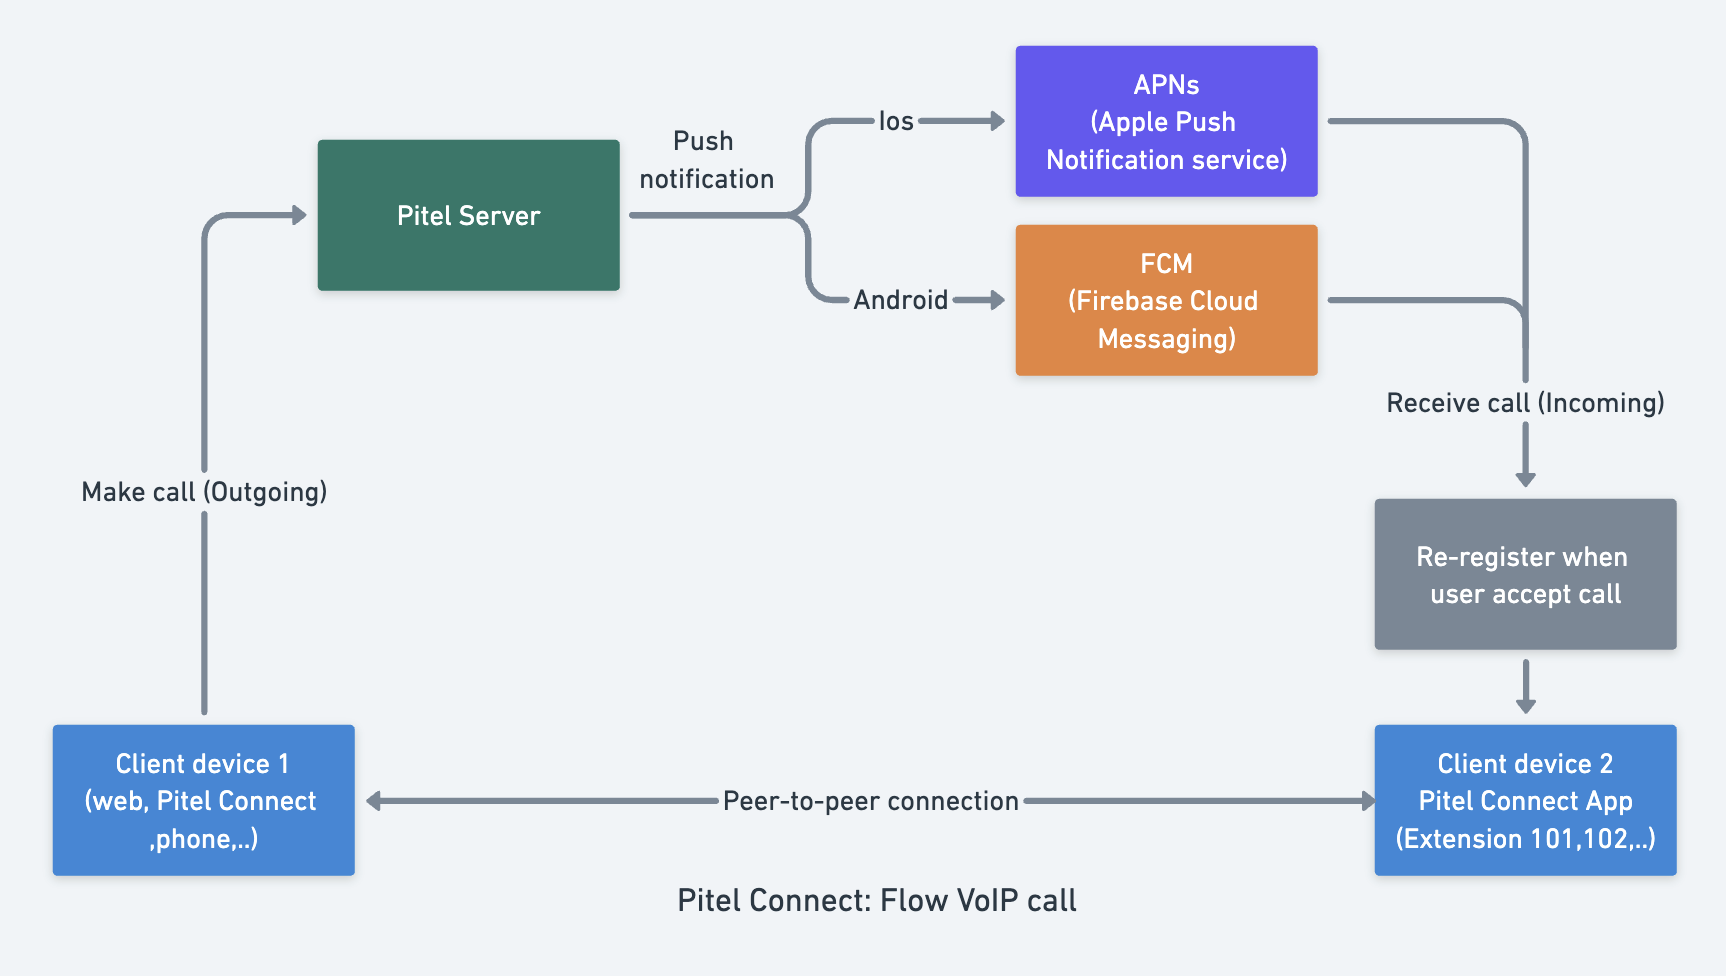
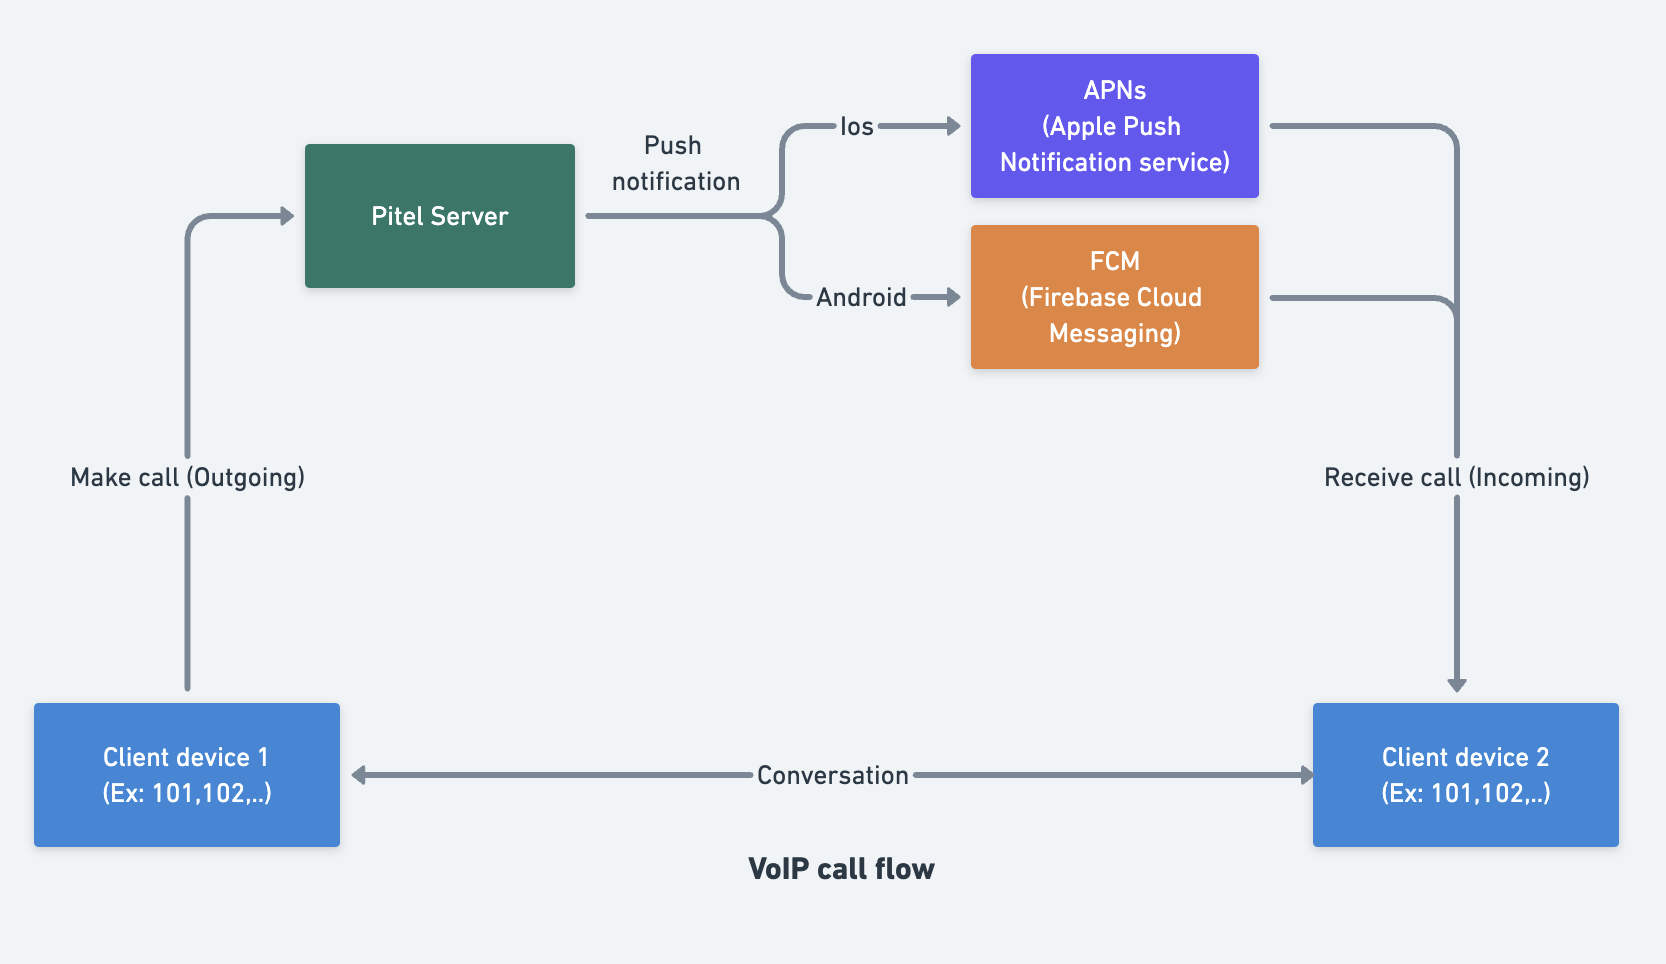
feat: Update README for version 1.1.5, adjust installation instructions, and correct wssServer URL

diff --git a/README.md b/README.md
@@ -30,13 +30,13 @@ When user make call from Pitel app, Pitel Server pushes a notification for all u
    Add pubspec.yaml:
 
 ```pubspec.yaml
-yarn add react-native-pitel-voip@1.1.4
+yarn add react-native-pitel-voip@1.1.5
 ```
 
 2. Installing dependencies into a bare React Native project
 
 ```js
-yarn add react-native-callkeep@4.3.13 @react-native-firebase/app@18.1.0 @react-native-firebase/messaging@22.1.0 react-native-background-timer@2.4.1 react-native-get-random-values@1.9.0 react-native-incall-manager@4.2.0 react-native-voip-push-notification@3.3.2 uuid@9.0.0 pitel-react-native-webrtc pitel-sdk-for-rn@0.0.6 @react-native-async-storage/async-storage@1.19.1 react-native-permissions@4.0.4 react-native-full-screen-notification-incoming-call@1.0.1 @react-native-webrtc@124.0.6
+yarn add react-native-callkeep@4.3.13 @react-native-firebase/app@18.1.0 @react-native-firebase/messaging@22.1.0 react-native-background-timer@2.4.1 react-native-get-random-values@1.9.0 react-native-incall-manager@4.2.0 react-native-voip-push-notification@3.3.2 uuid@9.0.0 pitel-react-native-webrtc pitel-sdk-for-rn@0.0.6 @react-native-async-storage/async-storage@1.19.1 react-native-permissions@4.0.4 github:anhquangmobile/react-native-full-screen-notification-incoming-call @react-native-webrtc@124.0.6
 ```
 
 3. Pod install
@@ -307,8 +307,7 @@ export default function App() {
 }
 ```
 
-- In file `src/screens/home_screen/index.js`
-  Please follow [example](https://github.com/tel4vn-team/react-native-pitel-sample/blob/main/src/screens/home_screen/index.js)
+- In file `src/screens/home_screen/index.js`. Please follow [example](https://github.com/tel4vn-team/react-native-pitel-sample/blob/main/src/config.js)
 
 > Config sdkOption
 
@@ -323,7 +322,7 @@ const sdkOptionsInit = {
   sipDomain: `${DOMAIN}`,
   port: `${PORT}`,
   extension: ext,
-  wssServer: `${WSS_URL}`,
+  wssServer: `${WSS_MOBILE_URL}`,
   sipPassword: sipPass,
   bundleId: appId, // Bundle id for IOS
   packageId: appId, // Package id for Android
